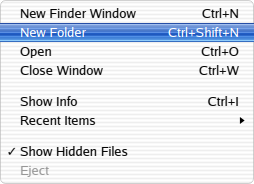
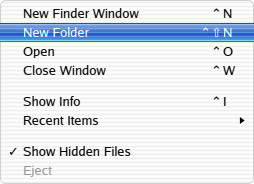
HIG polish: menus, drop shadows, bevel buttons, sorted header
- Menus: text 23px in, shortcut column in the 10.2 manner (modifier
  symbols right-aligned against a left-aligned key column; Ctrl shown as
  the Control symbol).
- Drop shadows for menus, help tags and pop-up lists via KWindowShadow
  (soft, heavier below), as under 10.2 menus.
- Bevel buttons are matte (HIG Figure 7-14): white-to-light-grey face,
  fine grey border darker at the bottom, grey face when pressed or on;
  labels in the 10pt label font, toolbar labels in the small system font.
- Sorted list column uses the lighter tab-blue gel (Figure 7-34).

diff --git a/style/pinstripestyle.cpp b/style/pinstripestyle.cpp
@@ -29,6 +29,12 @@
 #include <QToolButton>
 #include <QtMath>
 
+#include <KWindowShadow>
+#include <KWindowShadowTile>
+
+#include <array>
+#include <cmath>
+
 namespace Pinstripe
 {
 namespace
@@ -104,6 +110,17 @@ QFont smallFont(const QFont &f)
         s.setPointSizeF(f.pointSizeF() * 11.0 / 13.0);
     else if (f.pixelSize() > 0)
         s.setPixelSize(qRound(f.pixelSize() * 11.0 / 13.0));
+    return s;
+}
+
+// HIG chapter 10: the label font is 10pt (bevel button labels)
+QFont labelFont(const QFont &f)
+{
+    QFont s = f;
+    if (f.pointSizeF() > 0)
+        s.setPointSizeF(f.pointSizeF() * 10.0 / 13.0);
+    else if (f.pixelSize() > 0)
+        s.setPixelSize(qRound(f.pixelSize() * 10.0 / 13.0));
     return s;
 }
 
@@ -204,6 +221,42 @@ void paintTitleBar(QPainter *p, const QRect &r, bool active)
     p->fillRect(QRect(r.left(), r.bottom(), r.width(), 1), active ? QColor(127, 127, 127) : QColor(160, 160, 160));
     p->restore();
 }
+
+// Aqua bevel button (HIG Figure 7-14): matte, not gel. A soft white-to-light-grey face, a fine
+// grey border that is darker at the bottom, small rounded corners, a faint shadow; pressed or
+// toggled on, the face turns a darker grey.
+void paintBevel(QPainter *p, const QRectF &rect, bool down, qreal radius = 3.0)
+{
+    p->save();
+    p->setRenderHint(QPainter::Antialiasing, true);
+    const QRectF r = rect.adjusted(0.5, 0.5, -0.5, -1.5);
+    p->setPen(Qt::NoPen);
+    p->setBrush(QColor(0, 0, 0, 28));
+    p->drawRoundedRect(r.translated(0, 1.0), radius, radius);
+    QLinearGradient face(r.topLeft(), r.bottomLeft());
+    if (down) {
+        face.setColorAt(0.0, QColor(196, 196, 198));
+        face.setColorAt(1.0, QColor(214, 214, 216));
+    } else {
+        face.setColorAt(0.0, QColor(252, 252, 252));
+        face.setColorAt(0.5, QColor(242, 242, 243));
+        face.setColorAt(1.0, QColor(229, 229, 231));
+    }
+    QLinearGradient rim(r.topLeft(), r.bottomLeft());
+    rim.setColorAt(0.0, QColor(150, 150, 152));
+    rim.setColorAt(1.0, QColor(118, 118, 120));
+    p->setPen(QPen(QBrush(rim), 1.0));
+    p->setBrush(face);
+    p->drawRoundedRect(r, radius, radius);
+    if (!down) {
+        p->setPen(QColor(255, 255, 255, 200));
+        p->drawLine(QPointF(r.left() + radius, r.top() + 1), QPointF(r.right() - radius, r.top() + 1));
+    } else {
+        p->setPen(QColor(0, 0, 0, 40));
+        p->drawLine(QPointF(r.left() + radius, r.top() + 1), QPointF(r.right() - radius, r.top() + 1));
+    }
+    p->restore();
+}
 }
 
 Style::Style(Appearance appearance)
@@ -261,6 +314,9 @@ void Style::polish(QWidget *w)
         m_animated.append(w);
         updateAnimationTimer();
     }
+    // menus, help tags and pop-up lists cast the soft Aqua drop shadow
+    if (qobject_cast<QMenu *>(w) || w->inherits("QTipLabel") || w->inherits("QComboBoxPrivateContainer"))
+        w->installEventFilter(this);
     // help tags use the small system font (HIG chapter 10)
     if (w->inherits("QTipLabel"))
         w->setFont(smallFont(w->font()));
@@ -279,6 +335,8 @@ void Style::polish(QWidget *w)
 void Style::unpolish(QWidget *w)
 {
     m_animated.removeAll(w);
+    w->removeEventFilter(this);
+    removeShadow(w);
     if (qobject_cast<QMenu *>(w))
         w->setAttribute(Qt::WA_TranslucentBackground, false);
     QProxyStyle::unpolish(w);
@@ -291,6 +349,80 @@ void Style::updateAnimationTimer()
         m_timer.stop();
     else if (!m_timer.isActive())
         m_timer.start(40, this);
+}
+
+namespace
+{
+// Soft drop shadow, heavier below (offset 3px down), as under 10.2 menus and windows.
+constexpr int ShadowSize = 14;
+constexpr int ShadowOffset = 3;
+
+std::array<KWindowShadowTile::Ptr, 8> shadowTiles()
+{
+    static std::array<KWindowShadowTile::Ptr, 8> tiles;
+    if (tiles[0])
+        return tiles;
+    const int n = 2 * ShadowSize + 1;
+    QImage img(n, n, QImage::Format_ARGB32_Premultiplied);
+    img.fill(Qt::transparent);
+    const double sigma = ShadowSize / 2.6;
+    for (int y = 0; y < n; ++y) {
+        for (int x = 0; x < n; ++x) {
+            const double dx = std::abs(x - ShadowSize);
+            const double dy = std::abs(y - (ShadowSize + ShadowOffset));
+            const double d2 = dx * dx + dy * dy;
+            const int a = qBound(0, int(std::lround(92.0 * std::exp(-d2 / (2 * sigma * sigma)))), 255);
+            img.setPixel(x, y, qPremultiply(qRgba(0, 0, 0, a)));
+        }
+    }
+    const int s = ShadowSize;
+    const QRect rects[8] = {QRect(0, 0, s, s), QRect(s, 0, 1, s), QRect(s + 1, 0, s, s), QRect(s + 1, s, s, 1),
+                            QRect(s + 1, s + 1, s, s), QRect(s, s + 1, 1, s), QRect(0, s + 1, s, s), QRect(0, s, s, 1)};
+    for (int i = 0; i < 8; ++i) {
+        tiles[i] = KWindowShadowTile::Ptr::create();
+        tiles[i]->setImage(img.copy(rects[i]));
+    }
+    return tiles;
+}
+}
+
+void Style::installShadow(QWidget *w)
+{
+    if (!w->windowHandle() || m_shadows.contains(w))
+        return;
+    const auto t = shadowTiles();
+    auto *shadow = new KWindowShadow(w);
+    shadow->setTopLeftTile(t[0]);
+    shadow->setTopTile(t[1]);
+    shadow->setTopRightTile(t[2]);
+    shadow->setRightTile(t[3]);
+    shadow->setBottomRightTile(t[4]);
+    shadow->setBottomTile(t[5]);
+    shadow->setBottomLeftTile(t[6]);
+    shadow->setLeftTile(t[7]);
+    shadow->setPadding(QMargins(ShadowSize, ShadowSize, ShadowSize, ShadowSize));
+    shadow->setWindow(w->windowHandle());
+    if (shadow->create())
+        m_shadows.insert(w, shadow);
+    else
+        delete shadow;
+}
+
+void Style::removeShadow(QWidget *w)
+{
+    if (auto *shadow = m_shadows.take(w))
+        delete shadow;
+}
+
+bool Style::eventFilter(QObject *obj, QEvent *event)
+{
+    if (auto *w = qobject_cast<QWidget *>(obj)) {
+        if (event->type() == QEvent::Show)
+            installShadow(w);
+        else if (event->type() == QEvent::Hide || event->type() == QEvent::Destroy)
+            removeShadow(w);
+    }
+    return QProxyStyle::eventFilter(obj, event);
 }
 
 void Style::timerEvent(QTimerEvent *event)
@@ -494,12 +626,7 @@ void Style::drawPrimitive(PrimitiveElement pe, const QStyleOption *opt, QPainter
 
     case PE_PanelButtonCommand:
     case PE_PanelButtonBevel: {
-        // bevel buttons (square, 4px corners)
-        const bool sunken = opt->state & (State_Sunken | State_On);
-        GelOptions o;
-        o.radius = 4.0;
-        o.lensInset = 3;
-        paintGel(p, QRectF(opt->rect).adjusted(0.5, 0.5, -0.5, -2.5), sunken ? gel(GelKind::Pressed, m_appearance) : gel(GelKind::Clear, m_appearance), o);
+        paintBevel(p, QRectF(opt->rect), opt->state & (State_Sunken | State_On));
         return;
     }
 
@@ -518,10 +645,7 @@ void Style::drawPrimitive(PrimitiveElement pe, const QStyleOption *opt, QPainter
             }
             return;
         }
-        GelOptions o;
-        o.radius = 4.0;
-        o.lensInset = 3;
-        paintGel(p, QRectF(opt->rect).adjusted(0.5, 0.5, -0.5, -2.5), sunken ? gel(GelKind::Pressed, m_appearance) : gel(GelKind::Clear, m_appearance), o);
+        paintBevel(p, QRectF(opt->rect), sunken);
         return;
     }
 
@@ -758,11 +882,15 @@ void Style::drawControl(ControlElement ce, const QStyleOption *opt, QPainter *p,
         if (!enabled(opt))
             p->setOpacity(0.55);
         if (r.height() > ButtonHeight + ShadowSpace + 8) {
-            // tall buttons become bevel buttons, as the HIG recommends
-            GelOptions o;
-            o.radius = 5.0;
-            o.lensInset = 4;
-            paintGel(p, QRectF(r).adjusted(0.5, 0.5, -0.5, -2.5), buttonGel(opt, isDefault, sunken), o);
+            // tall buttons become bevel buttons, as the HIG recommends (larger text or an icon)
+            if (isDefault && windowActive(opt) && !sunken) {
+                GelOptions o;
+                o.radius = 5.0;
+                o.lensInset = 4;
+                paintGel(p, QRectF(r).adjusted(0.5, 0.5, -0.5, -2.5), buttonGel(opt, isDefault, sunken), o);
+            } else {
+                paintBevel(p, QRectF(r), sunken, 4.0);
+            }
         } else {
             const qreal h = qMin<qreal>(ButtonHeight, r.height() - ShadowSpace);
             const QRectF capsule(r.left() + 0.5, r.top() + (r.height() - ShadowSpace - h) / 2.0, r.width() - 1, h);
@@ -954,7 +1082,7 @@ void Style::drawControl(ControlElement ce, const QStyleOption *opt, QPainter *p,
             text = Qt::white;
         }
         p->setPen(text);
-        const int checkCol = 20;
+        const int checkCol = 23; // 10.2 menus start their text ~23px in
         int x = r.left() + checkCol;
         if (mi->checkType != QStyleOptionMenuItem::NotCheckable && mi->checked) {
             QFont f = mi->font;
@@ -978,8 +1106,25 @@ void Style::drawControl(ControlElement ce, const QStyleOption *opt, QPainter *p,
         p->setFont(mi->font);
         const int rightPad = mi->menuItemType == QStyleOptionMenuItem::SubMenu ? 22 : 14;
         p->drawText(QRect(x, r.top(), r.right() - x - rightPad, r.height()), Qt::AlignVCenter | Qt::AlignLeft | Qt::TextShowMnemonic, label);
-        if (!shortcut.isEmpty())
-            p->drawText(QRect(x, r.top(), r.right() - x - rightPad, r.height()), Qt::AlignVCenter | Qt::AlignRight, shortcut);
+        if (!shortcut.isEmpty()) {
+            // 10.2 shortcut column: modifier symbols right-aligned against the key, keys in a
+            // left-aligned column (Ctrl is shown as the Control symbol, which is what it is)
+            QString mods, key = shortcut;
+            const QStringList parts = shortcut.split(QLatin1Char('+'));
+            if (parts.size() > 1 && !parts.last().isEmpty()) {
+                key = parts.last();
+                const QString order[4][2] = {{QStringLiteral("Ctrl"), QStringLiteral("⌃")}, {QStringLiteral("Alt"), QStringLiteral("⌥")},
+                                             {QStringLiteral("Shift"), QStringLiteral("⇧")}, {QStringLiteral("Meta"), QStringLiteral("⌘")}};
+                for (const auto &o : order)
+                    if (parts.contains(o[0]))
+                        mods += o[1];
+            }
+            const int keyW = qMax(mi->fontMetrics.horizontalAdvance(QStringLiteral("W")) + 4, mi->fontMetrics.horizontalAdvance(key) + 2);
+            const int keyX = r.right() - rightPad - keyW;
+            p->drawText(QRect(keyX, r.top(), keyW, r.height()), Qt::AlignVCenter | Qt::AlignLeft, key);
+            if (!mods.isEmpty())
+                p->drawText(QRect(x, r.top(), keyX - x - 1, r.height()), Qt::AlignVCenter | Qt::AlignRight, mods);
+        }
         if (mi->menuItemType == QStyleOptionMenuItem::SubMenu)
             drawArrow(p, QRectF(r.right() - 16, r.top(), 10, r.height()), Qt::RightArrow, text);
         p->restore();
@@ -1020,7 +1165,7 @@ void Style::drawControl(ControlElement ce, const QStyleOption *opt, QPainter *p,
             o.radius = 0;
             o.shadow = false;
             o.lensInset = 0;
-            paintGel(p, QRectF(r).adjusted(-1, -1, 1, 0), coloredGel(), o);
+            paintGel(p, QRectF(r).adjusted(-1, -1, 1, 0), gel(GelKind::TabSelected, m_appearance), o); // lighter blue, HIG Figure 7-34
         } else {
             QLinearGradient g(r.topLeft(), r.bottomLeft());
             g.setColorAt(0, QColor(255, 255, 255));
@@ -1035,6 +1180,21 @@ void Style::drawControl(ControlElement ce, const QStyleOption *opt, QPainter *p,
             p->drawLine(r.topRight() + QPoint(0, 2), r.bottomRight() - QPoint(0, 2));
         p->restore();
         return;
+    }
+
+    case CE_ToolButtonLabel: {
+        // bevel button labels use the label font, toolbar labels the small system font
+        const auto *t = qstyleoption_cast<const QStyleOptionToolButton *>(opt);
+        if (t && !t->text.isEmpty() && t->toolButtonStyle != Qt::ToolButtonIconOnly && t->toolButtonStyle != Qt::ToolButtonTextOnly) {
+            QStyleOptionToolButton copy(*t);
+            copy.font = (t->state & State_AutoRaise) ? smallFont(t->font) : labelFont(t->font);
+            p->save();
+            p->setFont(copy.font);
+            QProxyStyle::drawControl(ce, &copy, p, w);
+            p->restore();
+            return;
+        }
+        break;
     }
 
     case CE_HeaderLabel: {

diff --git a/tools/gallery/main.cpp b/tools/gallery/main.cpp
@@ -41,6 +41,7 @@
 #include <QTextEdit>
 #include <QTimer>
 #include <QTreeWidget>
+#include <QToolButton>
 #include <QVBoxLayout>
 
 static void spin(int ms)
@@ -232,7 +233,23 @@ static QWidget *dialogWindow()
     sl->setValue(60);
     fl->addWidget(sl);
     lay->addWidget(flat);
-    win->resize(430, 300);
+    // bevel buttons (HIG Figure 7-14): icon above the label; the middle one toggled on
+    auto *bevels = new QHBoxLayout;
+    const char *names[][2] = {{"document-print", "Print"}, {"preferences-system", "Settings"}, {"internet-mail", "Mail"}};
+    for (int i = 0; i < 3; ++i) {
+        auto *b = new QToolButton;
+        b->setIcon(QIcon::fromTheme(QString::fromLatin1(names[i][0])));
+        b->setIconSize(QSize(32, 32));
+        b->setText(QString::fromLatin1(names[i][1]));
+        b->setToolButtonStyle(Qt::ToolButtonTextUnderIcon);
+        b->setCheckable(true);
+        b->setChecked(i == 1);
+        b->setMinimumSize(64, 60);
+        bevels->addWidget(b);
+    }
+    bevels->addStretch();
+    lay->addLayout(bevels);
+    win->resize(430, 380);
     return win;
 }
 

diff --git a/style/pinstripestyle.h b/style/pinstripestyle.h
@@ -8,7 +8,10 @@
 #include <QPainterPath>
 #include <QProxyStyle>
 #include <QStyleOption>
+#include <QHash>
 #include <QList>
+
+class KWindowShadow;
 
 namespace Pinstripe
 {
@@ -35,6 +38,7 @@ public:
 
 protected:
     void timerEvent(QTimerEvent *event) override;
+    bool eventFilter(QObject *obj, QEvent *event) override;
 
 private:
     Gel coloredGel() const;
@@ -48,10 +52,13 @@ private:
     void drawArrow(QPainter *p, const QRectF &r, Qt::ArrowType type, const QColor &c) const;
     void paintGelPath(QPainter *p, const QPainterPath &path, const QRectF &bounds, const Gel &g, Qt::Orientation o, bool shadow, const QPainterPath *rimPath = nullptr) const;
     void updateAnimationTimer();
+    void installShadow(QWidget *w);
+    void removeShadow(QWidget *w);
 
     Appearance m_appearance;
     QBasicTimer m_timer;
     QList<QPointer<QWidget>> m_animated; // default buttons and progress bars
     qreal m_phase = 0; // seconds, drives pulse and stripes
+    QHash<const QWidget *, KWindowShadow *> m_shadows; // menus, tooltips, pop-up lists
 };
 }
